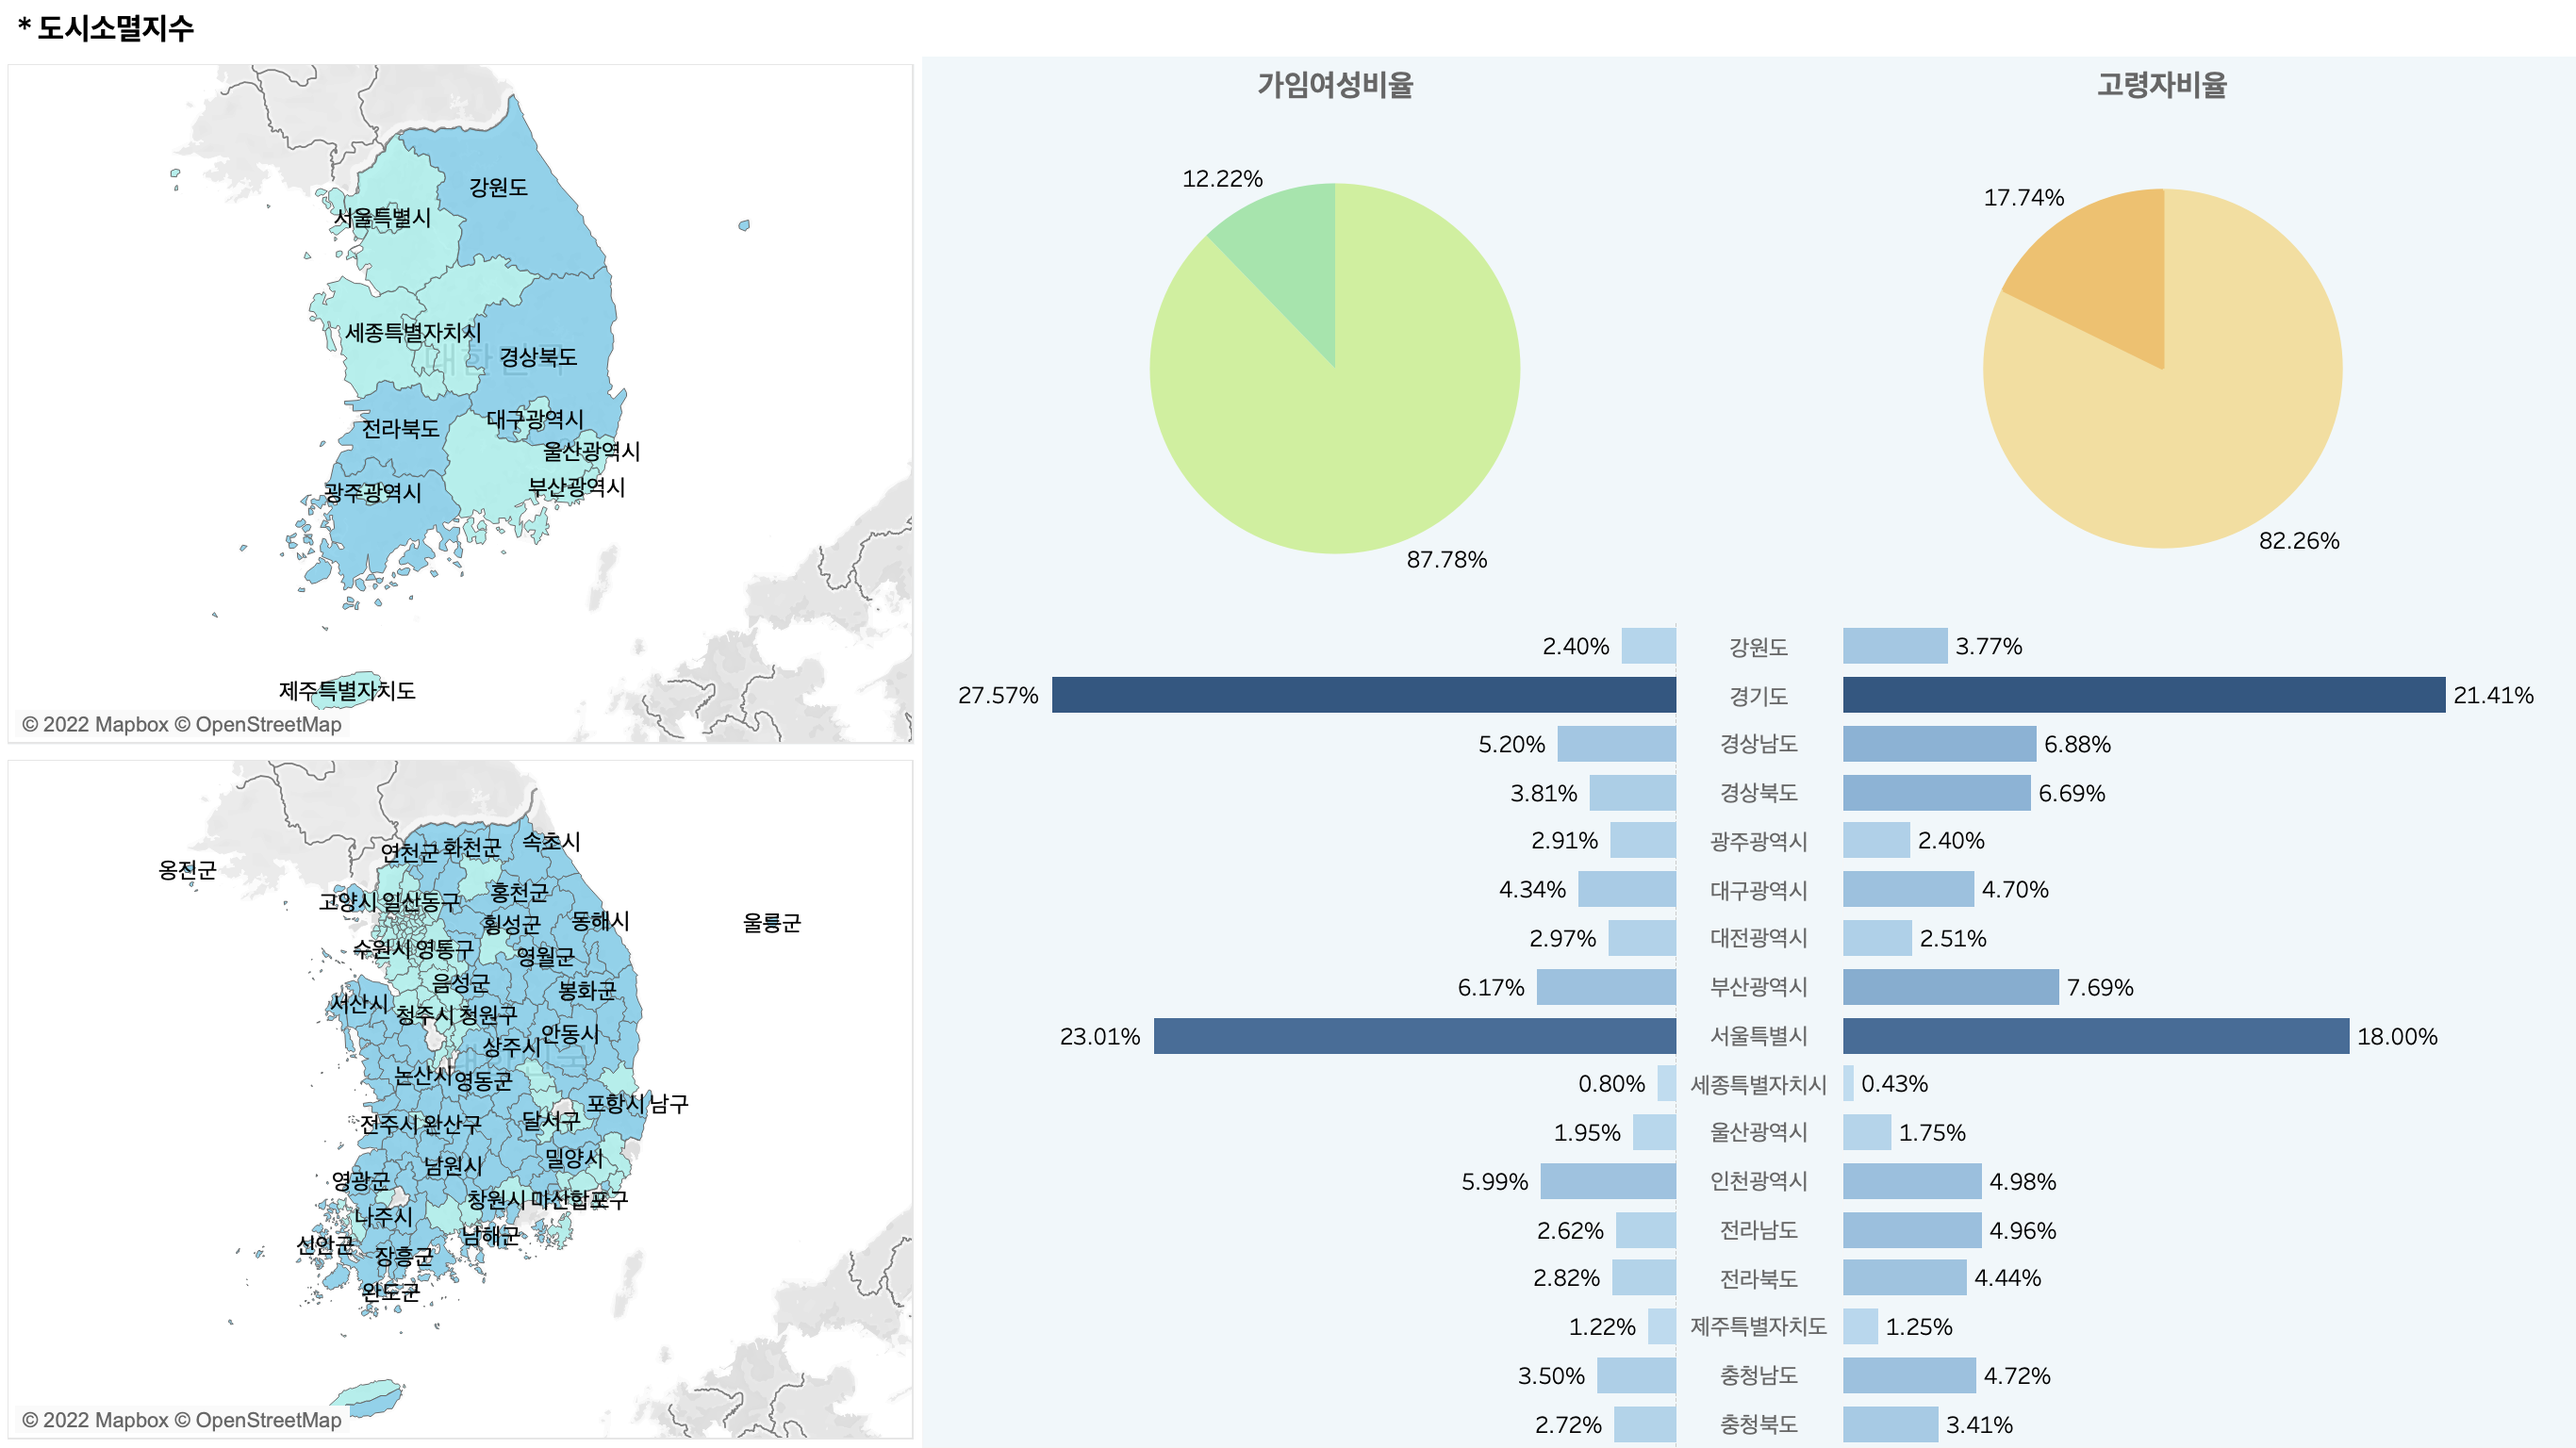
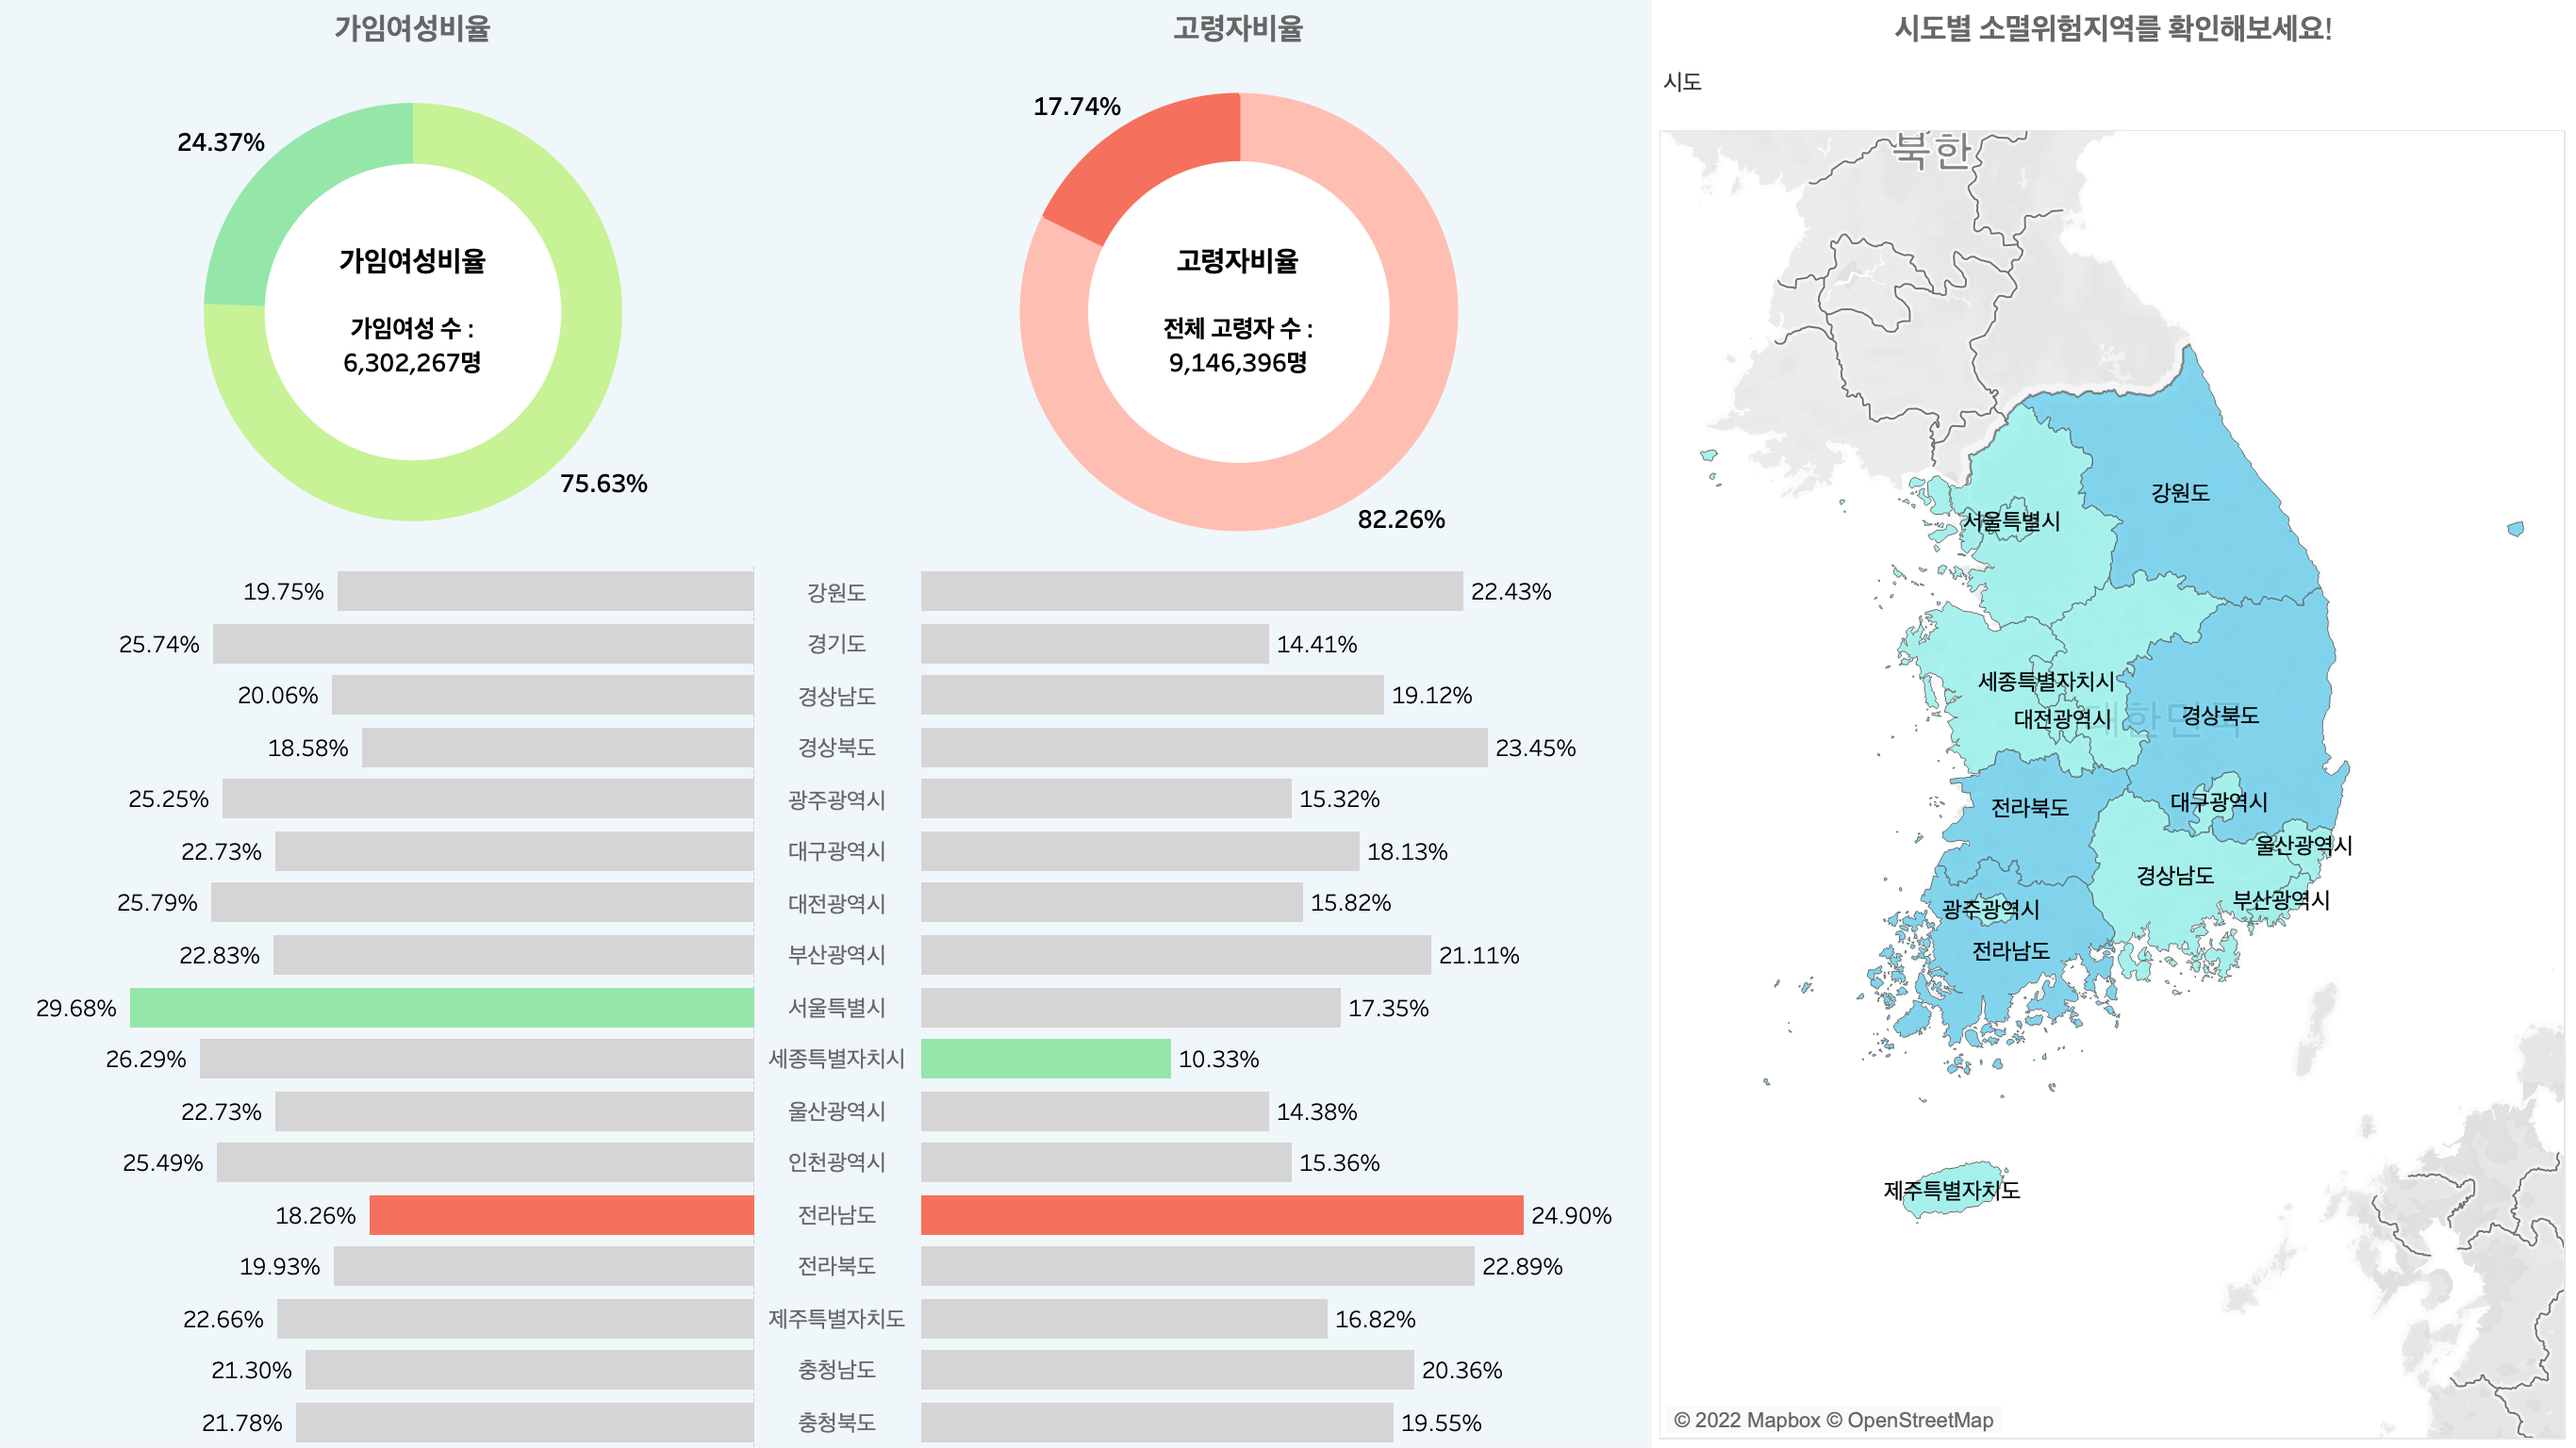
이미지수정

diff --git a/_posts/도시소멸지수.md b/_posts/도시소멸지수.md
@@ -1,25 +1,12 @@
----
 layout: single
 title:  "[Tableau]도시소멸지수구하기-(1)"
 typora-root-url: ../_images
----
-
-> ※ 첫번째 페이지 요구사항
->
-> 1. 도시소멸지수를 생성하여 시도/시군구별 소멸위험 지역을 보여주세요
-> 2. 20~39세의 가임여성 수 비율을 보여주세요
-> 3. 시도별 20~39세의 가임여성 수를 보여주세요
-> 4. 65세 이상의 고령자 수 비율을 보여주세요
-> 5. 시도별 65세 이상의 고령자 수를 보여주세요
-> 6. 1부터 5까지 지표를 활용해서 대시보드 화면을 구성해주세요
-
-
 
 ## 1. 테이블 확인하기
 
-![테이블확인](/테이블확인.png)
+![테이블확인](/Users/gayeon/Documents/kgyeonn.github.io/_images/테이블확인.png)
 
-![테이블확인2](/테이블확인2.png)
+![테이블확인2](/Users/gayeon/Documents/kgyeonn.github.io/_images/테이블확인2.png)
 
 - 데이터를 확인해본 결과 231개 열과 18668개의 행으로 구성되어 있음을 알 수 있다.
 
@@ -28,9 +15,9 @@ typora-root-url: ../_images
 
 ## 2. 피벗 만들기
 
-![피벗만들기](/피벗만들기.png)
+![피벗만들기](/Users/gayeon/Documents/kgyeonn.github.io/_images/피벗만들기.png)
 
-![피벗테이블생성](/피벗테이블생성.png)
+![피벗테이블생성](/Users/gayeon/Documents/kgyeonn.github.io/_images/피벗테이블생성.png)
 
 - 피벗함수를 사용할 열을 선택하여 피벗 테이블을 만들어 준다.
 - 피벗필드명과 피벗 필드값 열이 생성됨을 볼 수 있다.
@@ -52,7 +39,7 @@ REGEXP_MATCH(문자열, 패턴)
 예 : REGEXP_MATCH(’-([1234].[The.Market ])-’, ‘\[\s*(\w*\.)(\w*\s*\])’) = true
 ```
 
-![연령성별생성](/연령성별생성.png)
+![연령성별생성](/Users/gayeon/Documents/kgyeonn.github.io/_images/연령성별생성.png)
 
 - 정규화 함수를 통하여 C_연령, C_성별 필드를 새로 생성하였다. 
 
@@ -65,19 +52,28 @@ REGEXP_MATCH(문자열, 패턴)
 ### 가임여성 구분
 
 ```sql
+#C_여성수 : 25,858,862명
+IF [C_성별] = '여성' THEN [피벗 필드 값]
+END
+
 # 가임여성 T/F 테이블
 [C_성별]=='여성' AND
 [C_연령]> 19 and [C_연령]<40
 
-# 가임여성 수 측정값 
+# 가임여성수 : 6,302,207명
 IF [C_성별]=='여성' AND
    [C_연령]> 19 and [C_연령]<40 THEN [피벗 필드 값]
 END
+
+# C_가임여성수 비율
+SUM([가임여성수]) / SUM([C_여성수])
+
+# C_가임여성순위
+RANK_UNIQUE([C_가임여성비율])
+
 ```
 
-![가임여성파이차트](/가임여성파이차트.png)
-
-![가임여성막대차트](/가임여성막대차트.png)
+![가임여성비율](/Users/gayeon/Documents/kgyeonn.github.io/_images/가임여성비율.png)
 
 ### 고령자 구분
 
@@ -85,31 +81,34 @@ END
 # 고령자 T/F 테이블
 [C_연령] > 64
 
-# 고령자수 측정값 
+# 고령자수 
 IF [C_연령] > 64 THEN [피벗 필드 값]
 END
+
+# C_고령자수비율
+SUM([고령자수]) / SUM([피벗 필드 값])
+
+# C_고령자순위
+RANK_UNIQUE([C_고령자수비율])
 ```
 
-![고령자파이차트](/고령자파이차트.png)
+![고령자비율](/Users/gayeon/Documents/kgyeonn.github.io/_images/고령자비율.png)
 
-![고령자막대차트](/고령자막대차트.png)
 
-## 5. 도시소멸지수 구하기
+
+## 5. 도시소멸지수 구하기(시도, 시군구)
 
 ```sql
-# 도시소멸지수 측정값 
+# 도시소멸지수 
 SUM([가임여성수])/SUM([고령자수])
 
-# 도시소멸지수 측정값 
-SUM([가임여성수])/SUM([고령자수])
+# T/F_소멸위험지역
+[C_도시소멸지수] < 0.5
 ```
 
-![도시소멸측정값](/도시소멸측정값.png)
+![소멸위험지역](/Users/gayeon/Documents/kgyeonn.github.io/_images/소멸위험지역.gif)
 
-![도시소멸지수(시도)](/도시소멸지수(시도).png)
-![도시소멸지수(시군구)](/도시소멸지수(시군구).png)
 
 ## 6. 대시보드화면
 
-![도시소멸지수대시보드](/도시소멸지수대시보드.png)
-
+![도시소멸지수대시보드](/Users/gayeon/Documents/kgyeonn.github.io/_images/도시소멸지수대시보드.png)
